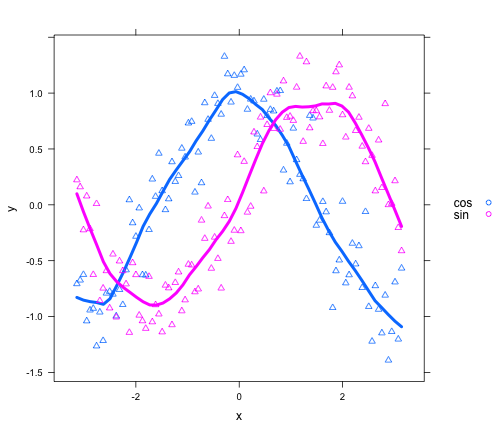
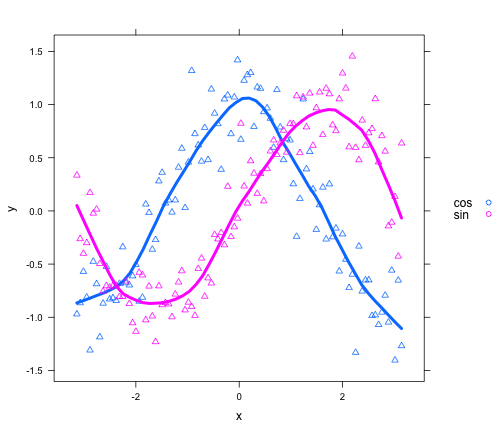
add download ribbon

diff --git a/index.html b/index.html
@@ -46,6 +46,9 @@
         <h2>http://ryanhope.github.com/plotting-in-r</h2>
         <p>Ryan Hope<br/>CogWorks Lab, Rensselaer Polytechnic Institute</p>
       </hgroup>
+      <a href="https://github.com//plotting-in-r/zipball/gh-pages" class="example">
+        Download
+      </a>
           </slide>
 
     <!-- SLIDES -->
@@ -112,7 +115,7 @@ str(d1)
 </code></pre>
 
 <pre><code>## &#39;data.frame&#39;:    200 obs. of  3 variables:
-##  $ y   : num  0.2224 0.1602 -0.2249 0.0778 -0.2146 ...
+##  $ y   : num  0.335 -0.262 -0.4 -0.3 0.171 ...
 ##  $ x   : num  -3.14 -3.08 -3.01 -2.95 -2.89 ...
 ##  $ type: Factor w/ 2 levels &quot;cos&quot;,&quot;sin&quot;: 2 2 2 2 2 2 2 2 2 2 ...
 </code></pre>
@@ -132,8 +135,8 @@ str(d2)
 
 <pre><code>## &#39;data.frame&#39;:    100 obs. of  3 variables:
 ##  $ x    : num  -3.14 -3.08 -3.01 -2.95 -2.89 ...
-##  $ y.sin: num  0.2224 0.1602 -0.2249 0.0778 -0.2146 ...
-##  $ y.cos: num  -0.707 -0.675 -0.624 -1.04 -0.943 ...
+##  $ y.sin: num  0.335 -0.262 -0.4 -0.3 0.171 ...
+##  $ y.cos: num  -0.97 -0.865 -0.57 -0.812 -1.31 ...
 </code></pre>
 
   </article>

diff --git a/index.md b/index.md
@@ -10,6 +10,9 @@ highlighter : highlight.js  # {highlight.js, prettify, highlight}
 hitheme     : tomorrow      # 
 widgets     : []            # {mathjax, quiz, bootstrap}
 mode        : selfcontained # {standalone, draft}
+github      :
+              author  : ryanhope
+              repo    : plotting-in-r
 ---
 
 ## Graphics Frameworks
@@ -59,7 +62,7 @@ str(d1)
 
 ```
 ## 'data.frame':	200 obs. of  3 variables:
-##  $ y   : num  0.2224 0.1602 -0.2249 0.0778 -0.2146 ...
+##  $ y   : num  0.335 -0.262 -0.4 -0.3 0.171 ...
 ##  $ x   : num  -3.14 -3.08 -3.01 -2.95 -2.89 ...
 ##  $ type: Factor w/ 2 levels "cos","sin": 2 2 2 2 2 2 2 2 2 2 ...
 ```
@@ -78,8 +81,8 @@ str(d2)
 ```
 ## 'data.frame':	100 obs. of  3 variables:
 ##  $ x    : num  -3.14 -3.08 -3.01 -2.95 -2.89 ...
-##  $ y.sin: num  0.2224 0.1602 -0.2249 0.0778 -0.2146 ...
-##  $ y.cos: num  -0.707 -0.675 -0.624 -1.04 -0.943 ...
+##  $ y.sin: num  0.335 -0.262 -0.4 -0.3 0.171 ...
+##  $ y.cos: num  -0.97 -0.865 -0.57 -0.812 -1.31 ...
 ```
 
 
